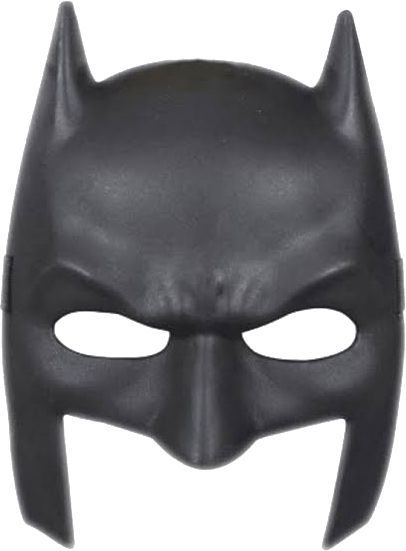
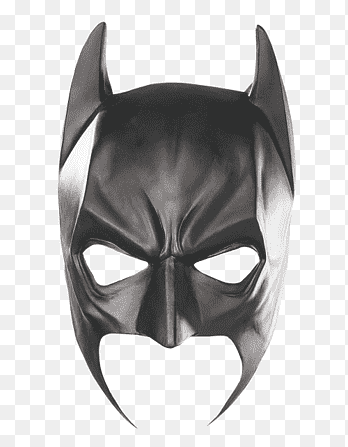
New Batman mask image, shadow, faster drawing

diff --git a/hallway_kiosk/filters/batman_mask.py b/hallway_kiosk/filters/batman_mask.py
@@ -10,8 +10,11 @@ How:
      (measured once, in pixels).
   2. scale = (distance between your eyes) / (distance between the holes)
   3. angle = tilt of the line between your eyes
-  4. One warp moves + turns + resizes the PNG so the holes land on your
-     eyes, then we blend it in using the PNG's transparency.
+  4. One warp moves + turns + resizes the PNG so the holes land on your eyes.
+  5. A soft shadow goes down first (makes the mask look 3D instead of
+     "stuck on"), then the mask is blended in using the PNG's transparency.
+  6. We only warp/blend the small box around the mask, not the whole
+     screen, so it stays fast on the Pi even with 4 people.
 """
 import math
 
@@ -22,10 +25,12 @@ NAME = "Batman Mask"
 OWNER = "Abhi"
 PNG = "batman_mask.png"
 
-EYE_L_PNG = (109, 335)   # center of the left eye hole in the PNG (pixels)
-EYE_R_PNG = (303, 335)   # center of the right eye hole in the PNG
+EYE_L_PNG = (60, 250)    # center of the left eye hole in the PNG (pixels)
+EYE_R_PNG = (179, 251)   # center of the right eye hole in the PNG
 SIZE = 1.0               # 1.0 = holes exactly on your eyes; bigger = bigger mask
 MAX_TILT = 40            # hide the mask if the head is tilted more than this (degrees)
+SHADOW = 0.45            # how dark the shadow is (0 = no shadow, 1 = black)
+SHADOW_OFFSET = 0.04     # how far the shadow sits down/right (fraction of mask width)
 
 
 def prepare(image):
@@ -36,22 +41,49 @@ def draw(frame, face, mask):
     (lx, ly), (rx, ry) = face["left_eye"], face["right_eye"]
     eye_dist = math.hypot(rx - lx, ry - ly)
     angle = math.degrees(math.atan2(ry - ly, rx - lx))       # head tilt
-    if abs(angle) > MAX_TILT:
+    if eye_dist < 5 or abs(angle) > MAX_TILT:
         return frame
 
     # Middle of the eye holes in the PNG, and middle of the real eyes
     hole_mid = ((EYE_L_PNG[0] + EYE_R_PNG[0]) / 2, (EYE_L_PNG[1] + EYE_R_PNG[1]) / 2)
     hole_dist = math.hypot(EYE_R_PNG[0] - EYE_L_PNG[0], EYE_R_PNG[1] - EYE_L_PNG[1])
     eye_mid = ((lx + rx) / 2, (ly + ry) / 2)
+    scale = SIZE * eye_dist / hole_dist
 
     # Turn + resize around the hole middle, then slide it onto the eye middle
-    M = cv2.getRotationMatrix2D(hole_mid, -angle, SIZE * eye_dist / hole_dist)
+    M = cv2.getRotationMatrix2D(hole_mid, -angle, scale)
     M[0, 2] += eye_mid[0] - hole_mid[0]
     M[1, 2] += eye_mid[1] - hole_mid[1]
 
-    # Warp the PNG onto the frame and blend it using its transparency
-    h, w = frame.shape[:2]
-    warped = cv2.warpAffine(mask, M, (w, h), flags=cv2.INTER_LINEAR,
+    # Where do the PNG's 4 corners land on screen? That box is all we touch.
+    ph, pw = mask.shape[:2]
+    corners = np.array([[0, 0, 1], [pw, 0, 1], [0, ph, 1], [pw, ph, 1]], np.float32) @ M.T
+    pad = int(pw * scale * SHADOW_OFFSET) + 8
+    fh, fw = frame.shape[:2]
+    x0 = max(0, int(corners[:, 0].min()) - pad)
+    y0 = max(0, int(corners[:, 1].min()) - pad)
+    x1 = min(fw, int(corners[:, 0].max()) + pad)
+    y1 = min(fh, int(corners[:, 1].max()) + pad)
+    if x1 <= x0 or y1 <= y0:
+        return frame                                          # mask is fully off screen
+
+    # Warp the PNG into just that box (shift the matrix so the box starts at 0,0)
+    M[0, 2] -= x0
+    M[1, 2] -= y0
+    warped = cv2.warpAffine(mask, M, (x1 - x0, y1 - y0), flags=cv2.INTER_LINEAR,
                             borderMode=cv2.BORDER_CONSTANT, borderValue=(0, 0, 0, 0))
-    alpha = warped[:, :, 3:4].astype(np.float32) / 255.0
-    return (frame * (1 - alpha) + warped[:, :, :3] * alpha).astype(np.uint8)
+    alpha = warped[:, :, 3].astype(np.float32) / 255.0
+
+    # Soft shadow: the mask's shape, blurred and nudged down-right
+    shift = int(pw * scale * SHADOW_OFFSET)
+    blur = max(3, int(pw * scale * 0.05)) | 1                 # blur size must be odd
+    shadow = cv2.GaussianBlur(alpha, (blur, blur), 0)
+    shadow = np.roll(shadow, (shift, shift), axis=(0, 1)) * SHADOW
+
+    out = frame.copy()
+    roi = out[y0:y1, x0:x1].astype(np.float32)
+    roi *= (1 - shadow)[:, :, None]                           # darken under the mask
+    a = alpha[:, :, None]
+    roi = roi * (1 - a) + warped[:, :, :3] * a                # then the mask on top
+    out[y0:y1, x0:x1] = roi.astype(np.uint8)
+    return out
